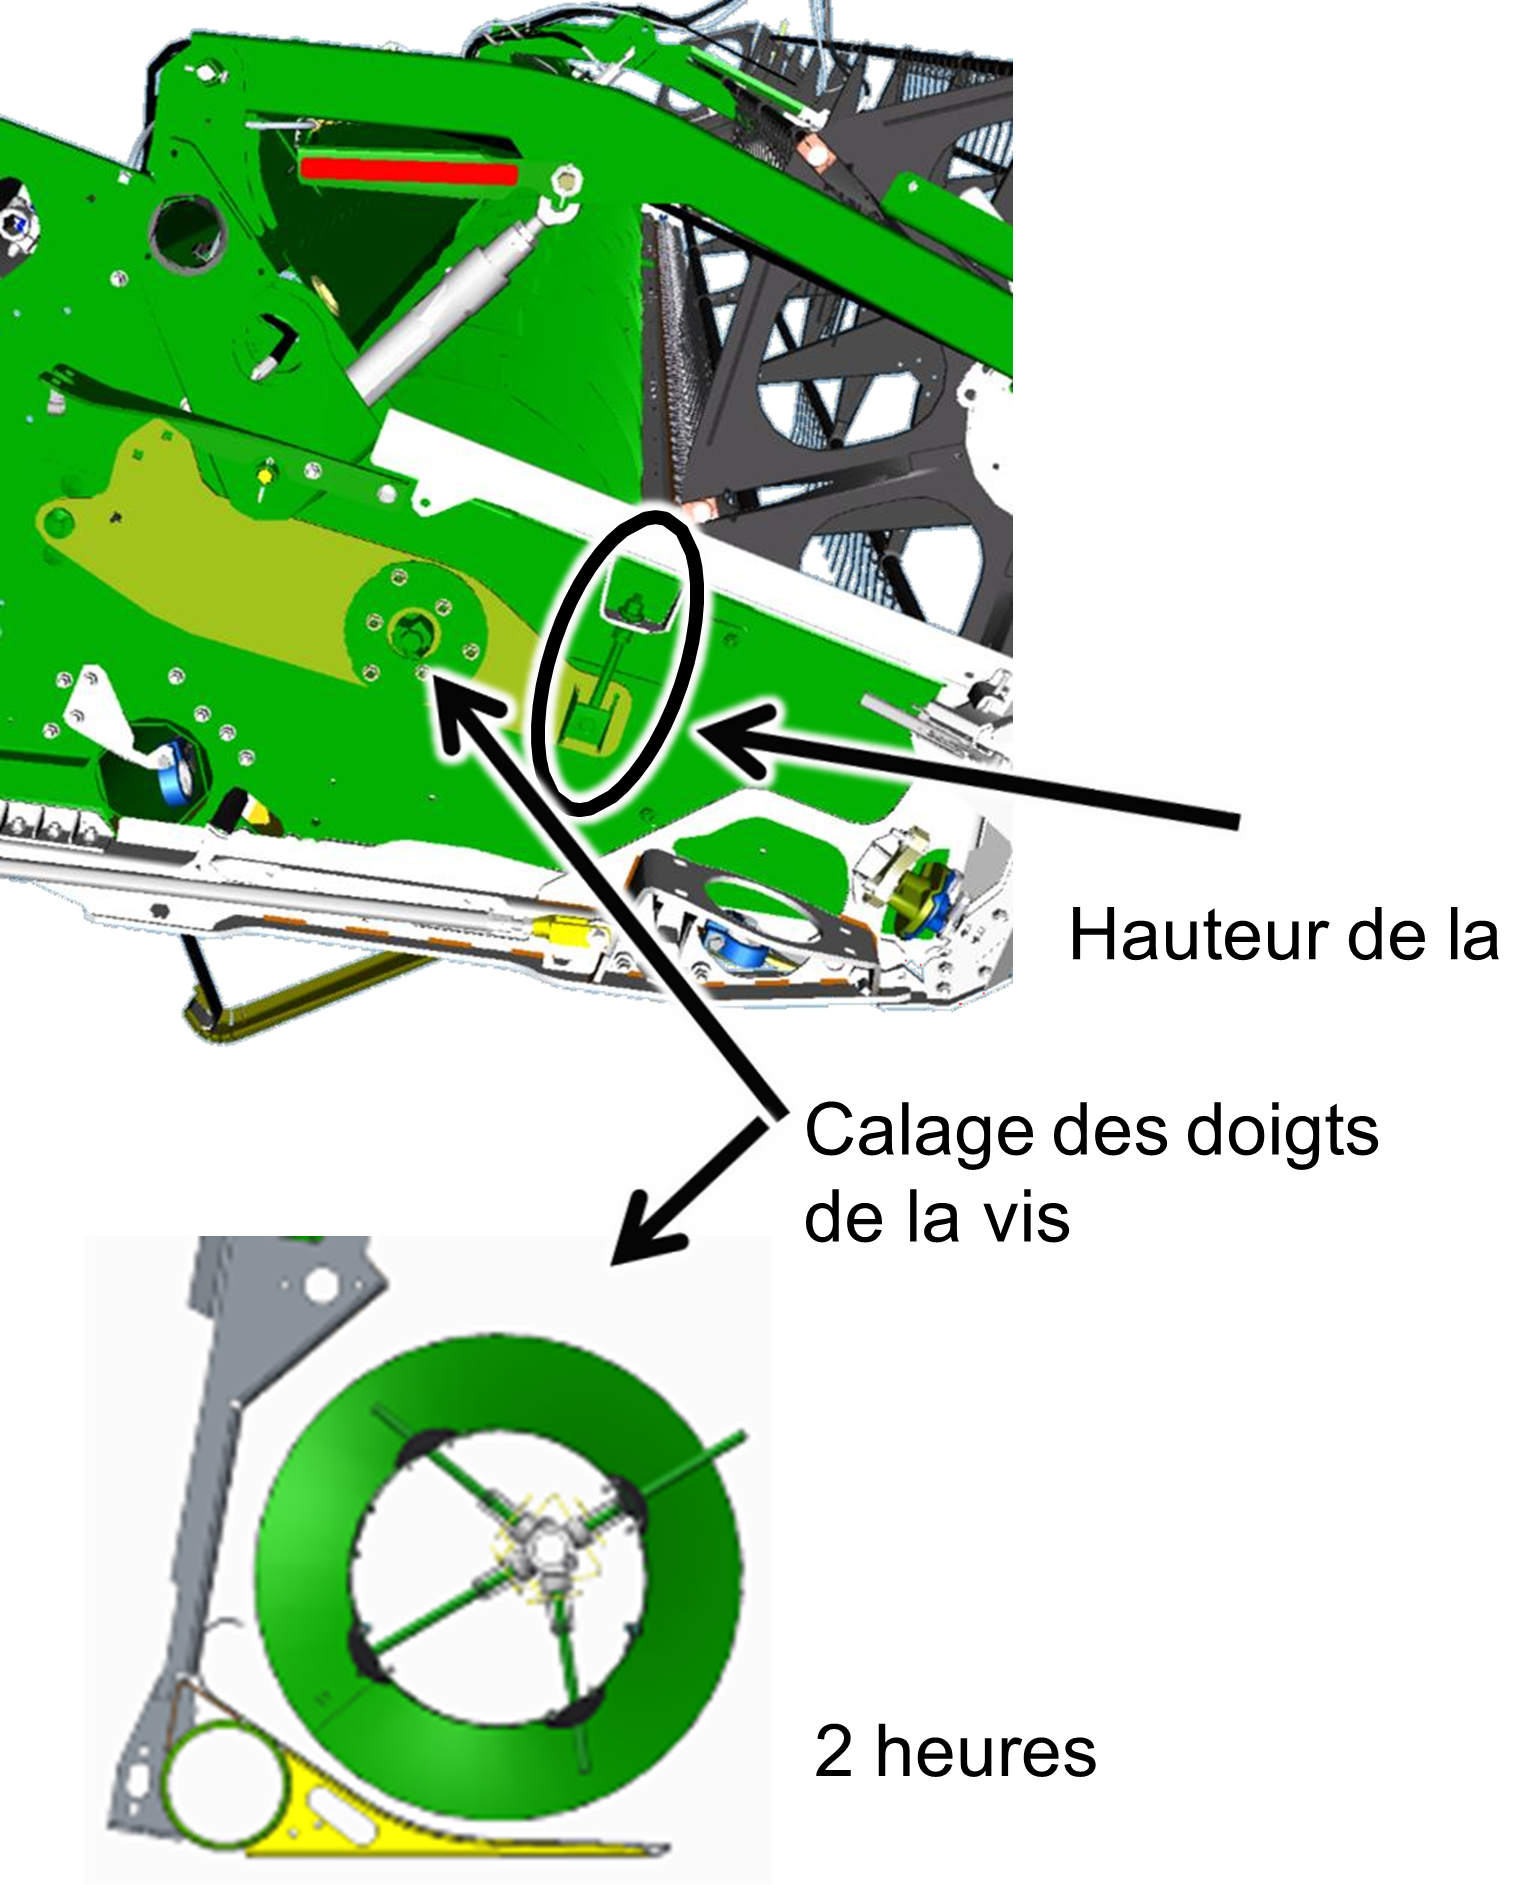
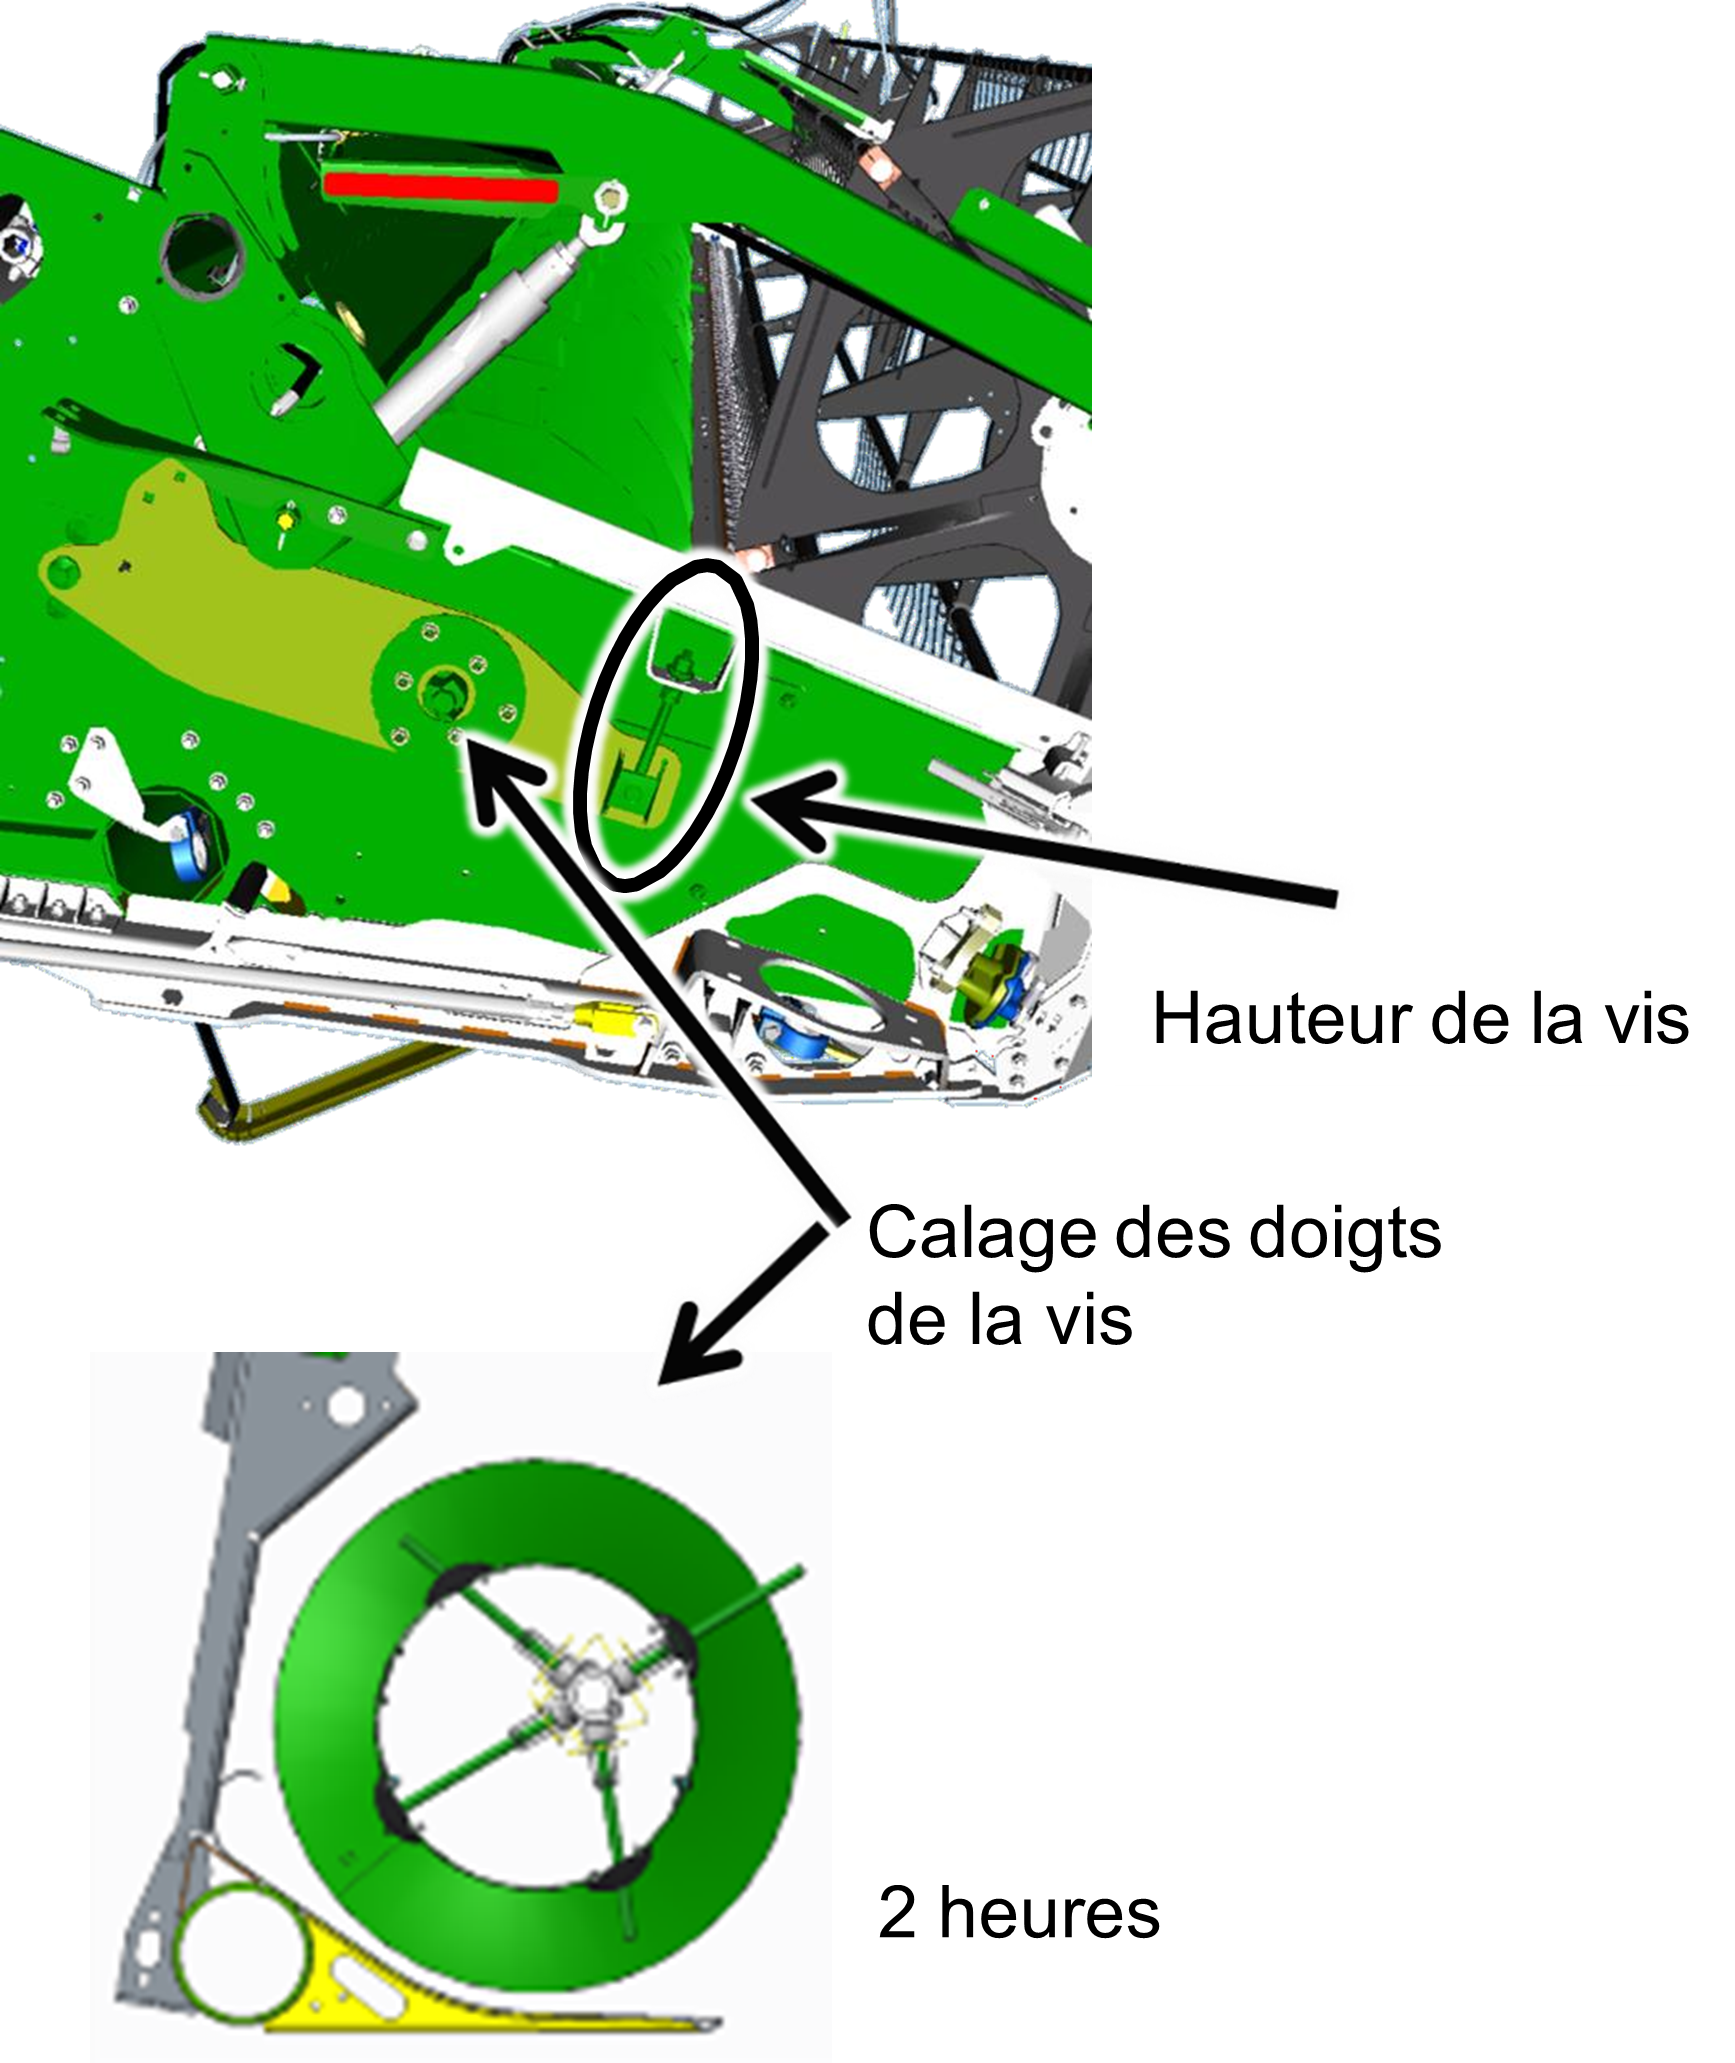
changement images

diff --git a/conversion_recolte_canola/configuration_plateforme.md b/conversion_recolte_canola/configuration_plateforme.md
@@ -8,14 +8,14 @@
 
 * En fonction de la culture, réglez la vis d'alimentation et le doigt de vis sans fin, représentés dans l'image ci-dessous.
 
-![vis d'alimentation et doigt de vis sans fin](images/Image3.jpg)
+<img src="images/Image3.jpg" alt="vis d'alimentation et doigt de vis sans fin" width="200" height="250">
 
 *Figure 1 - Vis d'alimentation et doigt de vis sans fin*
 
 * Vérifiez la distance entre la vis d'entrée et les racleurs.  
 La vis d'entrée et les racleurs sont encadrés en jaune dans l'image suivante :
 
-![distance entre la vis d'entrée et les racleurs](images/Image4.jpg)
+<img src="images/Image4.jpg" alt="distance entre la vis d'entrée et les racleurs" width="200" height="250">
 
 *Figure 2 - Distance entre la vis d'entrée et les racleurs* 
 
@@ -37,7 +37,7 @@ En cas de problème d'alimentation avec du colza à haut rendement :
 
 Le schéma suivant illustre le réglage de la vis d'alimentation :
 
-![réglage de la vis d'alimentation](images/Image7.png)
+<img src="images/Image7.png" alt="réglage de la vis d'alimentation" width="200" height="250">
 
 *Figure 3 - Réglage de la vis d'alimentation*
 
@@ -48,7 +48,7 @@ Réglez la longueur de table de la 700X en fonction de la hauteur de la culture 
 Réglez la longueur de la table de façon à ce que la tête des plants tombe entre les spires de la vis d'alimentation.  
 Prenez comme exemple l'illustration ci-dessous.
 
-![réglage de la longueur de la table](images/Image9.jpg)
+<img src="images/Image9.jpg" alt="réglage de la longueur de la table" width="300" height="250">
 
 *Figure 4 - Réglage de la longueur de la table*
 

diff --git a/conversion_recolte_canola/separation.md b/conversion_recolte_canola/separation.md
@@ -10,14 +10,14 @@
 | Crêtes                                            | Non nécessaire                                                        |
 | Volets en caoutchouc aux extrémités des secoueurs | Non nécessaire                                                        |
 
-![images/Image23.png](images/Image23.png)
+<img src="images/Image23.png" width="700" height="250">
 
 | Repère                   | Description                            |
 |--------------------------|----------------------------------------|
 | 1                        | Position du contre tire-paille arrière |
 | 2                        | Position de la grille de séparation    |
 
-![régime des organes de battage](images/Image21.png)
+<img src="images/Image21.png" alt="régime des organes de battage" width="300" height="250">
 
 *Figure 1 - Régime des organes de battage (régime rapide en noir)*
 
@@ -31,7 +31,7 @@
 | Séparateur transversal à doigts                   | Pas obligatoire |
 | Volet en caoutchouc                               | Pas obligatoire |
 
-![position du contre tire-paille arrière](images/Image24.png)
+<img src="images/Image24.png" alt="position du contre tire-paille arrière" width="300" height="250">
 
 | Repère                   | Description                            |
 |--------------------------|----------------------------------------|

diff --git a/conversion_recolte_canola/type_caisson_nettoyage.md b/conversion_recolte_canola/type_caisson_nettoyage.md
@@ -1,5 +1,18 @@
 # Type de caisson de nettoyage - grille à ôtons / grille à grain
 
-| Standard                                        | Maïs (ex. CZ4)                              | HP (hautes performances)                  | CCM - à lamelles coniques                  |
-|-------------------------------------------------|---------------------------------------------|-------------------------------------------|--------------------------------------------|
-| ![type de caisson standard](images/Image32.jpg) | ![type de caisson maïs](images/Image33.png) | ![type de caisson hp](images/Image34.jpg) | ![type de caisson ccm](images/Image35.png) |
+* Standard
+
+<img src="images/Image32.jpg" alt="type de caisson standard" width="300" height="250">
+
+* Maïs (ex.CZ4)
+
+<img src="images/Image33.png" alt="type de caisson maïs" width="300" height="250">
+
+* HP (hautes performances)
+
+<img src="images/Image34.jpg" alt="type de caisson hp" width="300" height="250">
+
+* CCM - à lamelles coniques
+
+<img src="images/Image35.png" alt="type de caisson ccm" width="300" height="250">
+

diff --git a/conversion_recolte_canola/plage_de_regime_batteur.md b/conversion_recolte_canola/plage_de_regime_batteur.md
@@ -8,11 +8,11 @@ La machine doit être équipée d'un entraînement de batteur à 2 vitesses.
 * Axe de verrouillage intérieur engagé
 * Poulie extérieure libre
 
-![vue face avant axe haut batteur](images/Image15.png)
+<img src="images/Image15.png" alt="vue face avant axe haut batteur" width="300" height="250">
 
 *Figure 1 - Vue de la face avant de l'axe haut du batteur*
 
-![vue face arrière axe haut batteur](images/Image17.png)
+<img src="images/Image17.png" alt="vue face arrière axe haut batteur" width="200" height="250">
 
 *Figure 2 - Vue de la face arrière de l'axe haut du batteur*
 
@@ -21,7 +21,7 @@ La machine doit être équipée d'un entraînement de batteur à 2 vitesses.
 * Axe de verrouillage intérieur libre
 * Poulie extérieure verrouillée
 
-![axe bas batteur](images/Image16.png)
+<img src="images/Image16.png" alt="axe bas batteur" width="300" height="250">
 
 *Figure 3 - Vue de la face avant de l'axe bas du batteur*
 

diff --git a/conversion_recolte_canola/contre_batteurs_sectionnels.md b/conversion_recolte_canola/contre_batteurs_sectionnels.md
@@ -9,18 +9,18 @@
  5. Remplacez les sections du contre-batteur.
  6. Fermez le mécanisme de verrouillage.
 
-![schéma d'un contre-batteur sectionnel](images/Image20.png)
+<img src="images/Image20.png" alt="schéma d'un contre-batteur sectionnel" width="400" height="250">
 
 *Schéma 1 - Contre-batteur sectionnel*
 
 Dans des conditions sèches et cassantes, des sections pour petits grains peuvent aider à réduire la charge du caisson de nettoyage.
 
-![section pour petits grains](images/Image18.jpg)
+<img src="images/Image18.jpg" alt="section pour petits grains" width="300" height="250">
 
 *Figure 1 - Section pour petits grains*
 
 Dans des conditions humides, un contre-batteur mixte améliore la séparation.
 
-![section mixte](images/Image19.jpg)
+<img src="images/Image19.jpg" alt="section mixte" width="300" height="250">
 
 *Figure 2 - Section mixte*

diff --git a/conversion_recolte_canola/convoyeur_alimentation.md b/conversion_recolte_canola/convoyeur_alimentation.md
@@ -9,7 +9,7 @@
 | Racleur de l’arbre supérieur      | Non                             |
 | Portes perforées                  | Non                             |
 
-![position du tambour et pignon](images/Image10_1.png)
+<img src="images/Image10_1.png" alt="position du tambour et pignon" width="400" height="250">
 
 *Figure 1 - Position du tambour et du pignon*
 
@@ -24,7 +24,7 @@ Réglez l’angle du convoyeur d’alimentation pour qu’il soit à plat ou lé
 Cela permet le ramassage de la récolte sans pousser de la terre.  
 Un exemple de réglage de l'angle du convoyeur est donné dans l'image ci-dessous.
 
-![angle du convoyeur d'alimentation](images/Image8.png)
+<img src="images/Image8.png" alt="angle du convoyeur d'alimentation" width="300" height="250">
 
 *Figure 2 - Angle du convoyeur d'alimentation*
 

diff --git a/conversion_recolte_canola/manutention_grain.md b/conversion_recolte_canola/manutention_grain.md
@@ -11,10 +11,10 @@
 | Limiteur de couple                                | Pas obligatoire |
 | Changement des vitesses de la trémie à grain      | Non - standard  |
 
-![manutention du grain](images/Image36.png)
+<img src="images/Image36.png" alt="manutention du grain" width="250" height="250">
 
 *Figure 1 - Manutention du grain*
 
-![schéma de la position du couvercle de la vis transversale](images/Image37.jpg)
+<img src="images/Image37.jpg" alt="schéma de la position du couvercle de la vis transversale" width="400" height="250">
 
 *Schéma 1 - Position du couvercle de la vis transversale*

diff --git a/conversion_recolte_canola/residus.md b/conversion_recolte_canola/residus.md
@@ -10,6 +10,6 @@
 | Vanne de vitesse de l'éparpilleur de menues pailles (selon l'équipement) | Rapide        |                                          |
 | Détecteur de rafles                                                      | Non           |                                          |
 
-![régime du broyeur](images/Image39.jpg)
+<img src="images/Image39.jpg" alt="régime du broyeur" width="500" height="250">
 
 *Schéma 1 - Régime du broyeur*

diff --git a/conversion_recolte_canola/eparpilleur_menues_pailles.md b/conversion_recolte_canola/eparpilleur_menues_pailles.md
@@ -7,7 +7,7 @@ Réglez les ailettes à la largeur de travail adaptée au type et aux conditions
 * 635 : ailette complètement en haut
 * 616 : ailette complètement en bas
 
-![ailette complètement en bas](images/Image42.png)
+<img src="images/Image42.png" alt="ailette complètement en bas" width="300" height="350">
 
 *Figure 1 - Ailette complètement en bas pour type de récolte 616*
 

diff --git a/conversion_recolte_canola/battage_serie_t.md b/conversion_recolte_canola/battage_serie_t.md
@@ -63,7 +63,7 @@
   </tr>
 </table>
 
-![battage Série T](images/Image12.png)
+<img src="images/Image12.png" alt="battage Série T" width="350" height="250">
 
 *Figure 1 - Battage Série T*
 
@@ -135,7 +135,7 @@
   </tr>
 </table>
 
-![battage Série W](images/Image13.png)
+<img src="images/Image13.png" alt="battage Série W" width="350" height="250">
 
 *Figure 2 - Battage Série W*
 

diff --git a/conversion_recolte_canola/caisson_nettoyage.md b/conversion_recolte_canola/caisson_nettoyage.md
@@ -48,7 +48,7 @@
   </tr>
 </table>
 
-![caisson de nettoyage](images/Image31.png)
+<img src="images/Image31.png" alt="caisson de nettoyage" width="500" height="250">
 
 *Figure 1 - Caisson de nettoyage*
 
